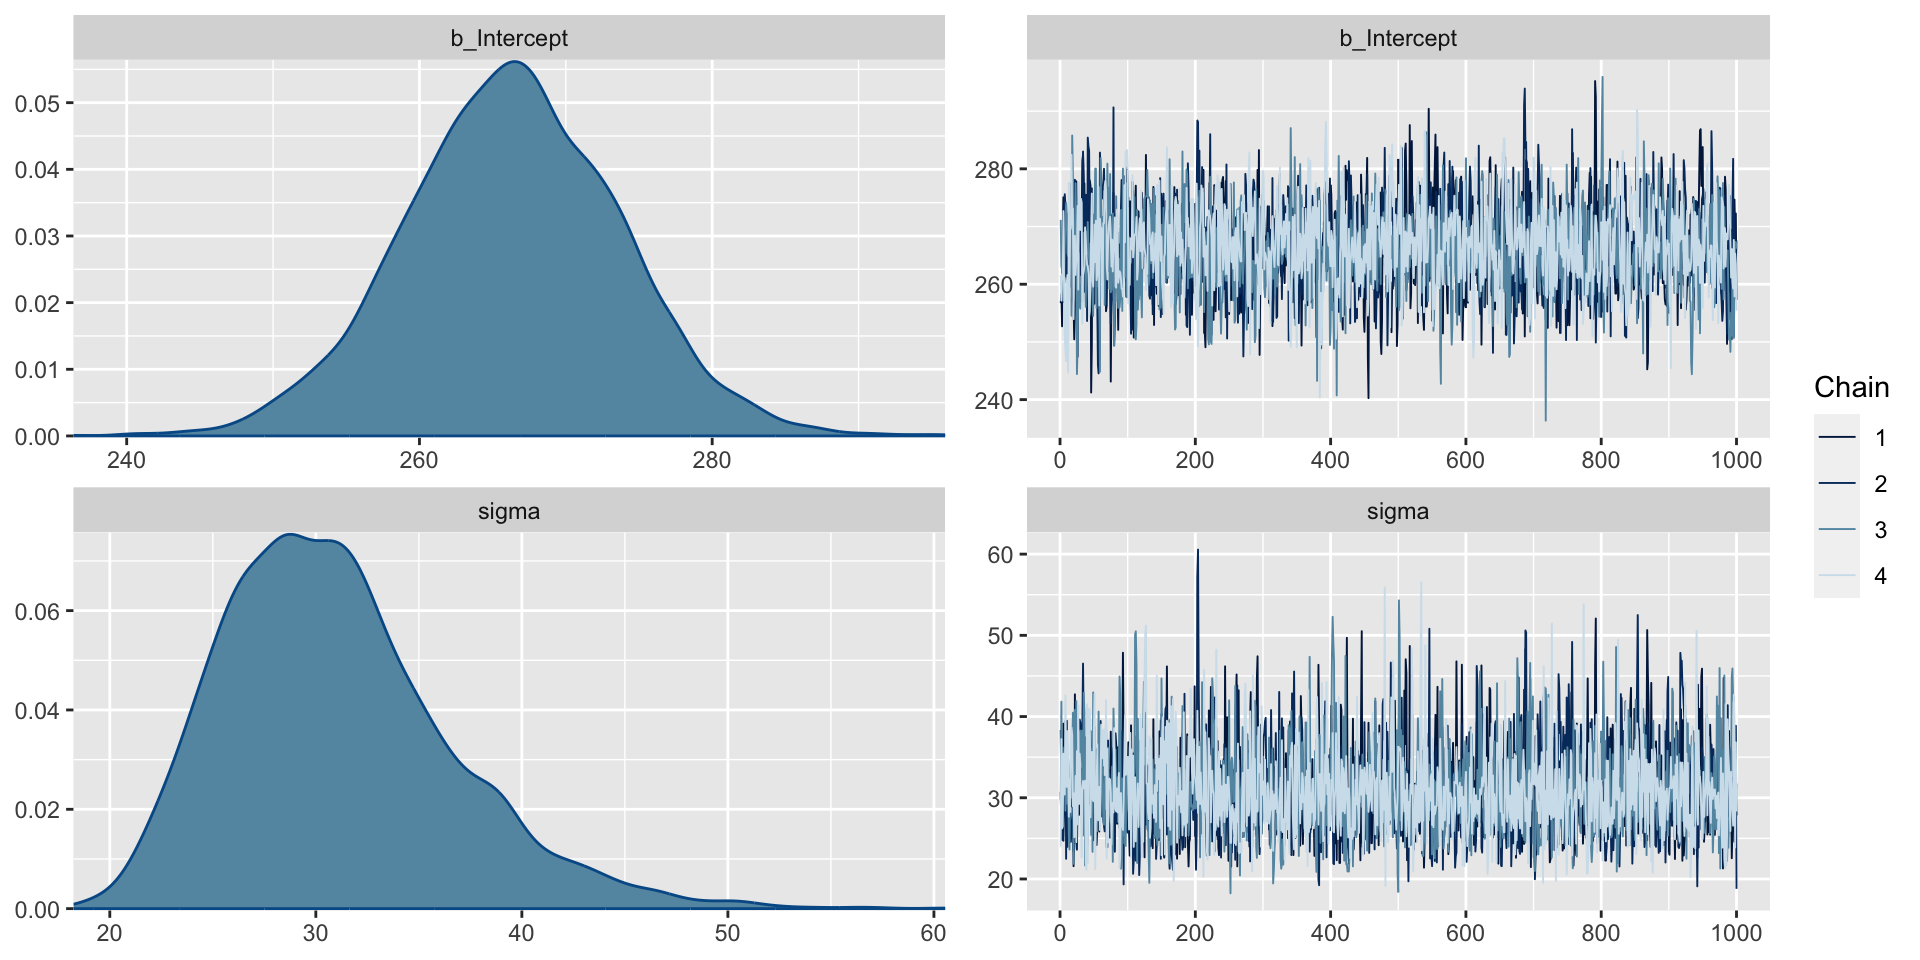
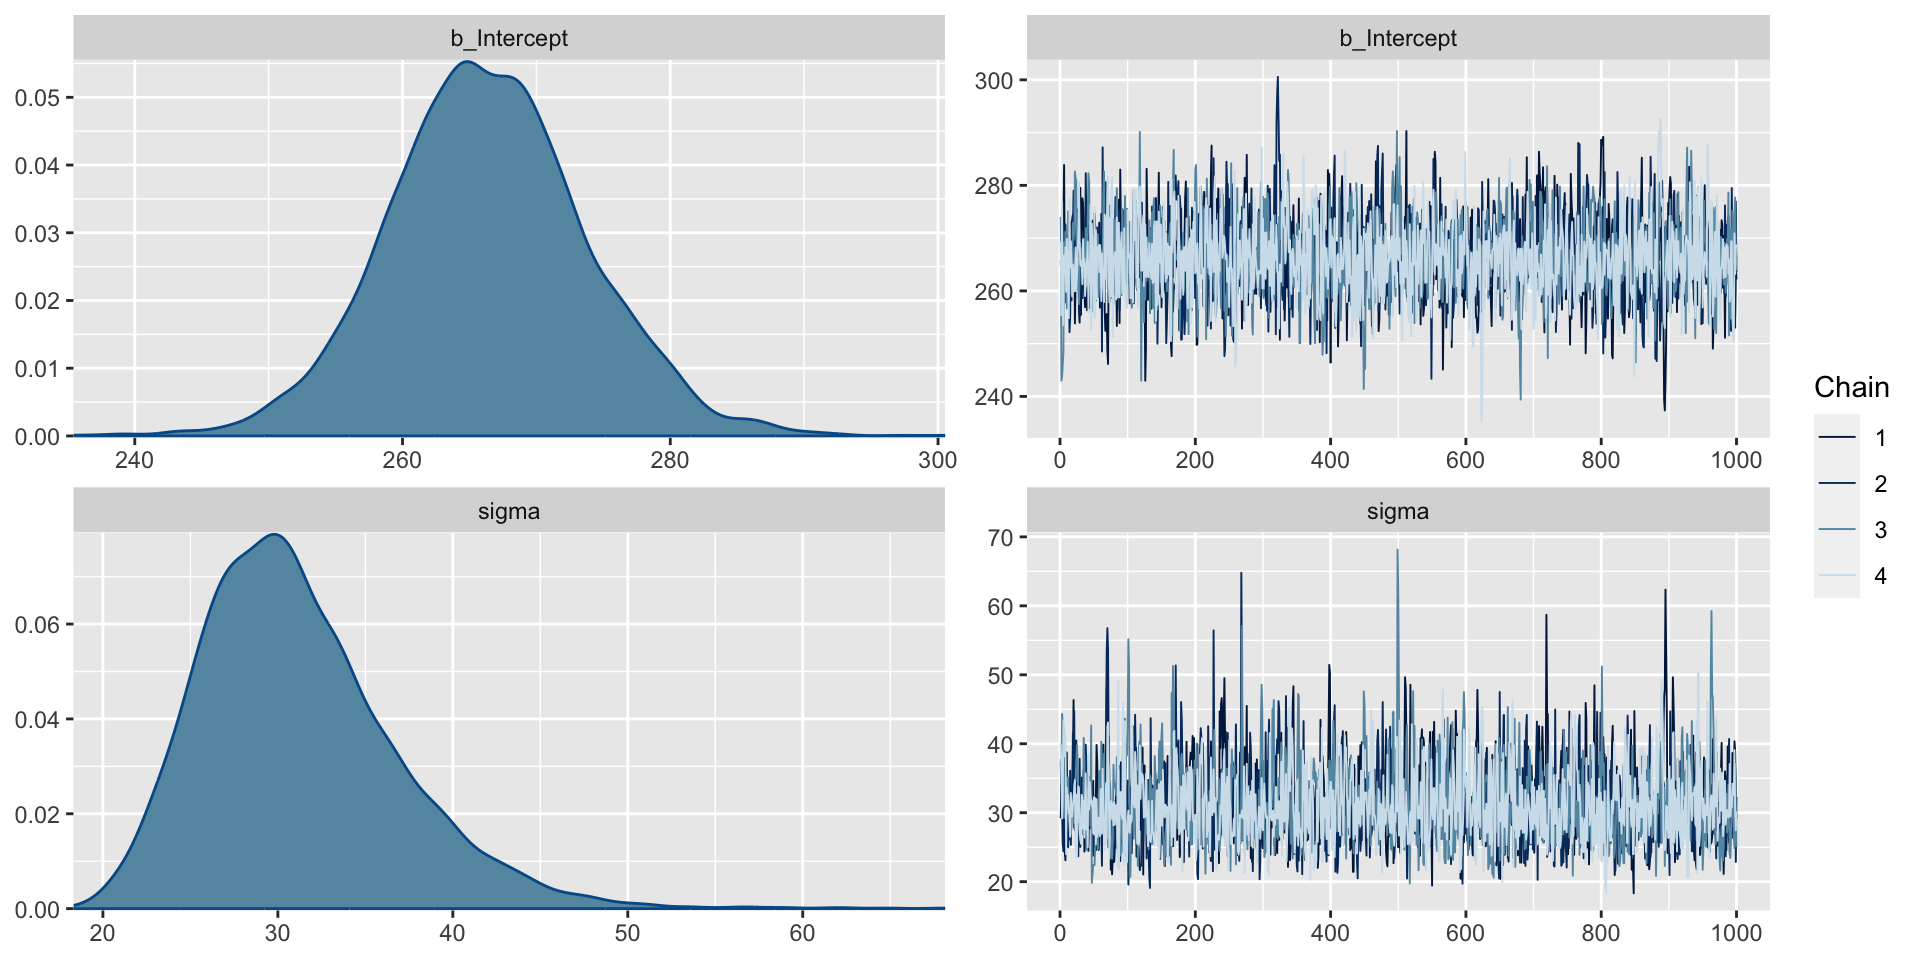
fixing Cauchy mean error

diff --git a/day-3-posterior/2-lec-posterior-analysis/2-lec-posterior-analysis.html b/day-3-posterior/2-lec-posterior-analysis/2-lec-posterior-analysis.html
@@ -440,7 +440,7 @@
 </section>
 <section id="prior-for-the-standard-deviation" class="slide level2">
 <h2>Prior for the Standard Deviation</h2>
-<p>We will specify a prior directly on the standard deviation <span class="math inline">\(\sigma\)</span> as <span class="math inline">\(\sigma \sim \text{HalfCauchy}(0,40)\)</span>, which has mean 0 and scale parameter 40 and is called “half” because only the positive values are used. If you haven’t seen the Cauchy distribution, it’s a special case of a t distribution with 1 degree of freedom, and it’s nice because it has fat tails and allows substantial mass away from its mean. We plot it here.</p>
+<p>We will specify a prior directly on the standard deviation <span class="math inline">\(\sigma\)</span> as <span class="math inline">\(\sigma \sim \text{HalfCauchy}(0,40)\)</span>, which is centered at 0 and has scale parameter 40 and is called “half” because only the positive values are used. If you haven’t seen the Cauchy distribution, it’s a special case of a t distribution with 1 degree of freedom, and it’s nice because it has fat tails and allows substantial mass away from its mean. We plot it here.</p>
 
 <img data-src="2-lec-posterior-analysis_files/figure-revealjs/unnamed-chunk-3-1.png" width="960" class="r-stretch"></section>
 <section id="code-to-fit-model" class="slide level2">
@@ -452,7 +452,7 @@
 <span id="cb2-4"><a href="#cb2-4"></a>            <span class="fu">prior</span>(<span class="fu">normal</span>(<span class="dv">300</span>,<span class="dv">50</span>), <span class="at">class =</span> Intercept), </span>
 <span id="cb2-5"><a href="#cb2-5"></a>              <span class="co"># prior for mu has mean 300 and sd 50</span></span>
 <span id="cb2-6"><a href="#cb2-6"></a>            <span class="fu">prior</span>(<span class="fu">cauchy</span>(<span class="dv">0</span>,<span class="dv">40</span>), <span class="at">class =</span> sigma)</span>
-<span id="cb2-7"><a href="#cb2-7"></a>              <span class="co"># prior for sigma is half of a mean 0, scale 40 Cauchy</span></span>
+<span id="cb2-7"><a href="#cb2-7"></a>              <span class="co"># prior for sigma is half of a center 0, scale 40 Cauchy</span></span>
 <span id="cb2-8"><a href="#cb2-8"></a>                )</span>
 <span id="cb2-9"><a href="#cb2-9"></a>)</span></code><button title="Copy to Clipboard" class="code-copy-button"><i class="bi"></i></button></pre></div>
 </div>
@@ -517,11 +517,11 @@ Formula: Reaction ~ 1
 
 Population-Level Effects: 
           Estimate Est.Error l-95% CI u-95% CI Rhat Bulk_ESS Tail_ESS
-Intercept   266.32      7.39   251.56   280.91 1.00     2494     2675
+Intercept   266.35      7.44   251.95   281.08 1.00     2433     2110
 
 Family Specific Parameters: 
       Estimate Est.Error l-95% CI u-95% CI Rhat Bulk_ESS Tail_ESS
-sigma    30.96      5.56    22.23    43.83 1.00     2812     2496
+sigma    31.17      5.63    22.39    44.09 1.00     2116     2069
 
 Draws were sampled using sampling(NUTS). For each parameter, Bulk_ESS
 and Tail_ESS are effective sample size measures, and Rhat is the potential
@@ -555,14 +555,14 @@ scale reduction factor on split chains (at convergence, Rhat = 1).</code></pre>
 <span id="cb6-2"><a href="#cb6-2"></a><span class="fu">mean</span>(<span class="fu">as_draws_df</span>(fit)<span class="sc">$</span>b_Intercept<span class="sc">&lt;</span><span class="dv">275</span>)</span>
 <span id="cb6-3"><a href="#cb6-3"></a><span class="in">```</span></span></code><button title="Copy to Clipboard" class="code-copy-button"><i class="bi"></i></button></pre></div>
 <div class="cell-output cell-output-stdout">
-<pre><code>[1] 0.88375</code></pre>
+<pre><code>[1] 0.878</code></pre>
 </div>
 </div>
-<p>So the posterior probability that <span class="math inline">\(\mu&lt;275\)</span> is 0.88375.</p>
+<p>So the posterior probability that <span class="math inline">\(\mu&lt;275\)</span> is 0.878.</p>
 </section>
 <section id="evaluating-our-hypothesis-2" class="slide level2">
 <h2>Evaluating Our Hypothesis</h2>
-<p>We can also use the 95% credible interval for <span class="math inline">\(\mu\)</span>, given by (251.56,280.91) and note that 275 is inside this credible interval.</p>
+<p>We can also use the 95% credible interval for <span class="math inline">\(\mu\)</span>, given by (251.95,281.08) and note that 275 is inside this credible interval.</p>
 </section>
 <section id="you-try-it" class="slide level2">
 <h2>You Try It!</h2>
